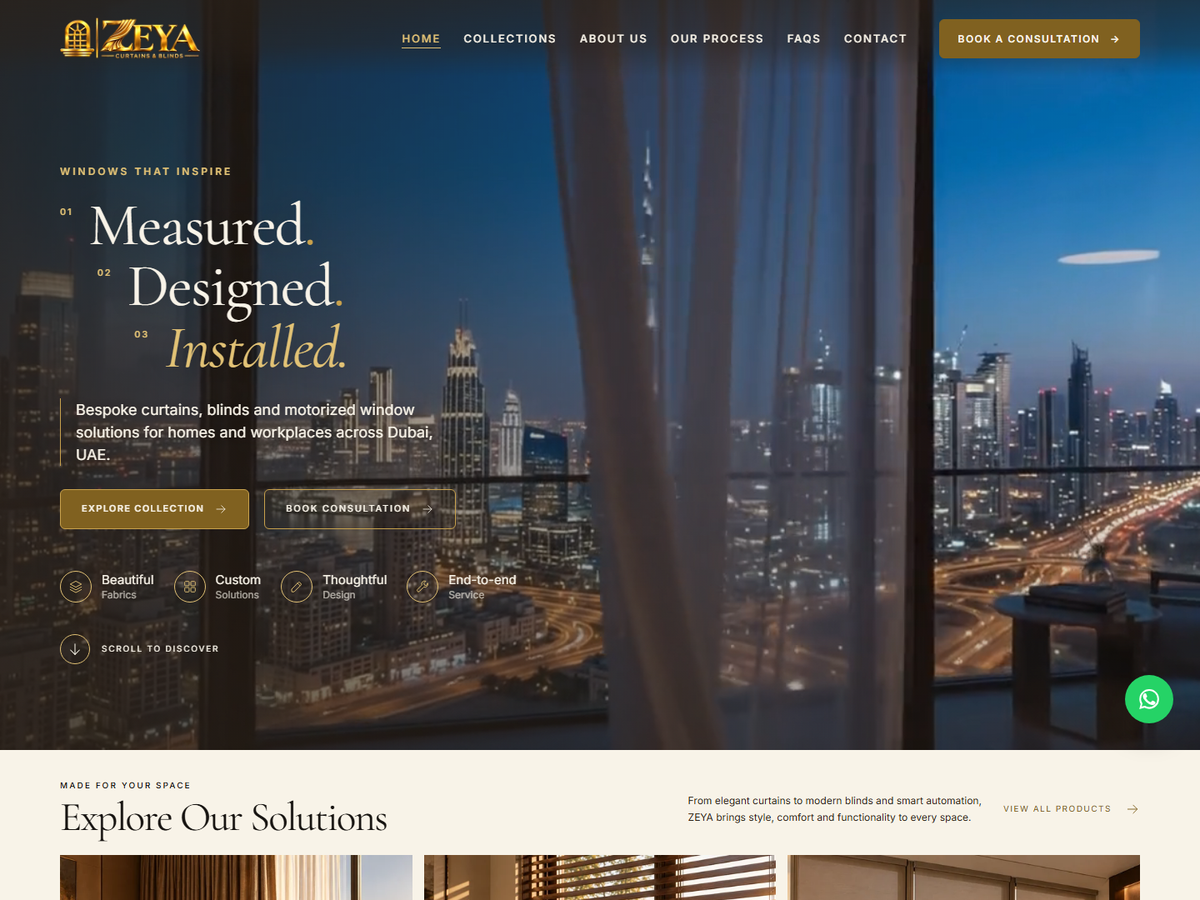
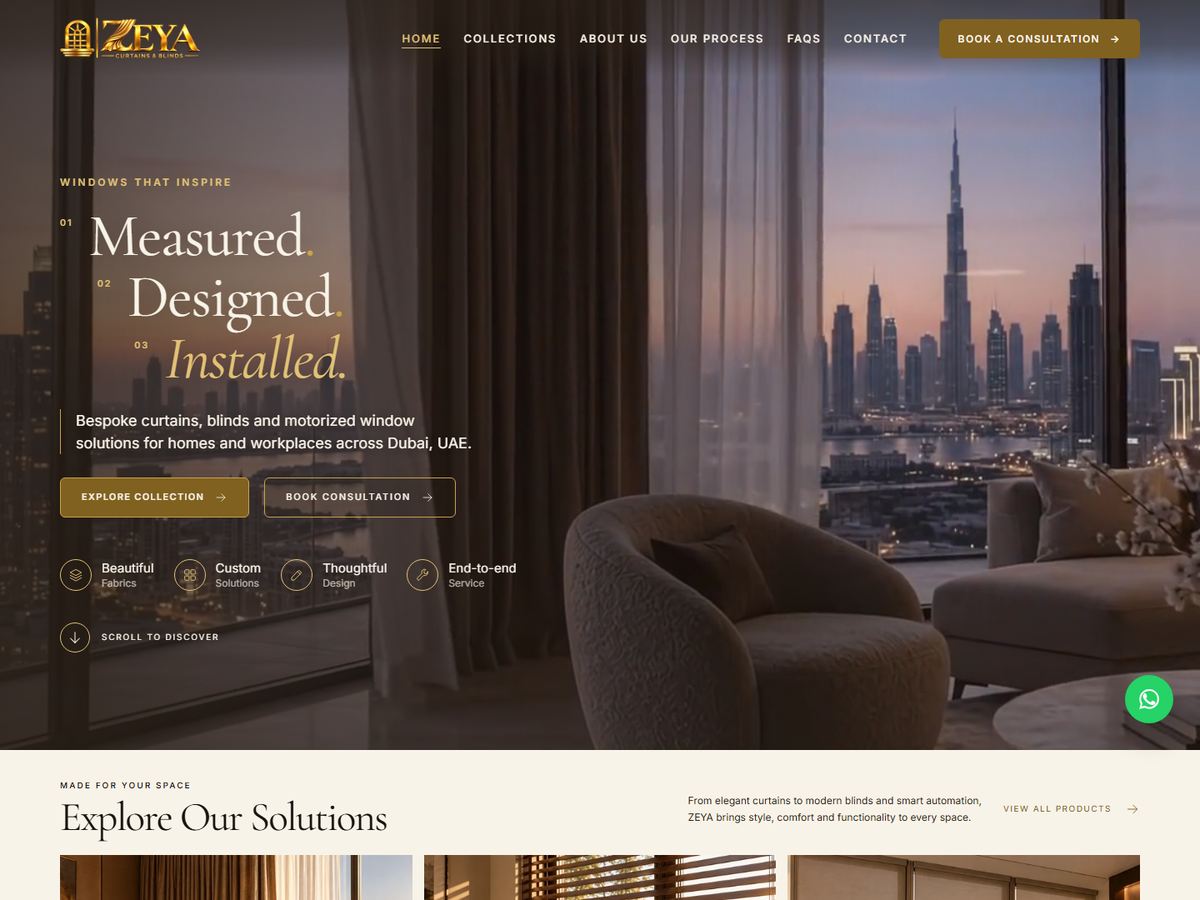
Set the home hero headline on a single line
Drop the numbered staircase and the gold rule beside the supporting line;
"Measured. Designed. Installed." now runs on one line with gold full stops
and a gold italic "Installed.", scaled to fit from phone to desktop.
Completes the stylesheet change begun in the previous commit and syncs
dist/ and the WordPress theme.

diff --git a/dist/css/responsive.css b/dist/css/responsive.css
@@ -103,7 +103,6 @@
   .zeya-signature-heading{flex-wrap:wrap;gap:8px 24px}
   .zeya-solutions .zeya-signature-heading>p{order:3;max-width:none;flex-basis:100%;margin:0}
   .zeya-signature-hero .zeya-hero__title{font-size:68px}
-  .zeya-signature-hero .zeya-hero__title--steps{font-size:60px}
   .zeya-art__copy{padding:32px}
   .zeya-quality-grid{gap:14px;grid-template-columns:repeat(2,1fr)}
   .zeya-service-band__features{padding:30px 18px}
@@ -116,7 +115,6 @@
   .zeya-nav__cta{padding:14px 24px}
   .zeya-signature-hero{min-height:100svh;padding-top:110px}
   .zeya-signature-hero .zeya-hero__title{font-size:64px}
-  .zeya-signature-hero .zeya-hero__title--steps{font-size:58px}
   .zeya-hero-aside{right:6%;top:30%}
   .zeya-art__copy{padding:28px}
   .zeya-desktop-break{display:none}
@@ -133,10 +131,7 @@
   .zeya-signature-hero .zeya-hero__media img{object-position:62% center}
   .zeya-signature-hero .zeya-hero__scrim{background:linear-gradient(90deg,rgba(43,33,24,.82),rgba(43,33,24,.34)),linear-gradient(0deg,rgba(43,33,24,.55),transparent)}
   .zeya-signature-hero .zeya-hero__title{font-size:clamp(46px,9vw,66px);line-height:1}
-  .zeya-signature-hero .zeya-hero__title--steps{font-size:clamp(42px,11.5vw,56px);line-height:1.04}
-  .zeya-hero__step:nth-child(2){margin-left:.4em}
-  .zeya-hero__step:nth-child(3){margin-left:.8em}
-  .zeya-signature-hero .zeya-hero__title--steps + .zeya-hero__sub{padding-left:14px}
+  .zeya-signature-hero .zeya-hero__title--steps{font-size:clamp(26px,6.5vw,46px);line-height:1.05}
   .zeya-signature-hero .zeya-hero__eyebrow{font-size:10px}
   .zeya-signature-hero .zeya-hero__sub{font-size:15px;max-width:360px}
   .zeya-signature-hero .zeya-hero__actions{width:auto;flex-direction:row;flex-wrap:wrap;gap:12px}
@@ -183,7 +178,6 @@
   .zeya-signature-hero{padding-top:calc(var(--zeya-nav-h) + 16px);padding-bottom:16px}
   .zeya-signature-hero .zeya-hero__inner{gap:12px}
   .zeya-signature-hero .zeya-hero__title{font-size:clamp(38px,8svh,66px)}
-  .zeya-signature-hero .zeya-hero__title--steps{font-size:clamp(38px,7svh,60px)}
   .zeya-signature-hero .zeya-hero__sub{font-size:15px}
   .zeya-signature-hero .zeya-hero__actions{margin-top:4px}
   .zeya-hero-promises{margin-top:8px}

diff --git a/zeya-theme/assets/css/responsive.css b/zeya-theme/assets/css/responsive.css
@@ -103,7 +103,6 @@
   .zeya-signature-heading{flex-wrap:wrap;gap:8px 24px}
   .zeya-solutions .zeya-signature-heading>p{order:3;max-width:none;flex-basis:100%;margin:0}
   .zeya-signature-hero .zeya-hero__title{font-size:68px}
-  .zeya-signature-hero .zeya-hero__title--steps{font-size:60px}
   .zeya-art__copy{padding:32px}
   .zeya-quality-grid{gap:14px;grid-template-columns:repeat(2,1fr)}
   .zeya-service-band__features{padding:30px 18px}
@@ -116,7 +115,6 @@
   .zeya-nav__cta{padding:14px 24px}
   .zeya-signature-hero{min-height:100svh;padding-top:110px}
   .zeya-signature-hero .zeya-hero__title{font-size:64px}
-  .zeya-signature-hero .zeya-hero__title--steps{font-size:58px}
   .zeya-hero-aside{right:6%;top:30%}
   .zeya-art__copy{padding:28px}
   .zeya-desktop-break{display:none}
@@ -133,10 +131,7 @@
   .zeya-signature-hero .zeya-hero__media img{object-position:62% center}
   .zeya-signature-hero .zeya-hero__scrim{background:linear-gradient(90deg,rgba(43,33,24,.82),rgba(43,33,24,.34)),linear-gradient(0deg,rgba(43,33,24,.55),transparent)}
   .zeya-signature-hero .zeya-hero__title{font-size:clamp(46px,9vw,66px);line-height:1}
-  .zeya-signature-hero .zeya-hero__title--steps{font-size:clamp(42px,11.5vw,56px);line-height:1.04}
-  .zeya-hero__step:nth-child(2){margin-left:.4em}
-  .zeya-hero__step:nth-child(3){margin-left:.8em}
-  .zeya-signature-hero .zeya-hero__title--steps + .zeya-hero__sub{padding-left:14px}
+  .zeya-signature-hero .zeya-hero__title--steps{font-size:clamp(26px,6.5vw,46px);line-height:1.05}
   .zeya-signature-hero .zeya-hero__eyebrow{font-size:10px}
   .zeya-signature-hero .zeya-hero__sub{font-size:15px;max-width:360px}
   .zeya-signature-hero .zeya-hero__actions{width:auto;flex-direction:row;flex-wrap:wrap;gap:12px}
@@ -183,7 +178,6 @@
   .zeya-signature-hero{padding-top:calc(var(--zeya-nav-h) + 16px);padding-bottom:16px}
   .zeya-signature-hero .zeya-hero__inner{gap:12px}
   .zeya-signature-hero .zeya-hero__title{font-size:clamp(38px,8svh,66px)}
-  .zeya-signature-hero .zeya-hero__title--steps{font-size:clamp(38px,7svh,60px)}
   .zeya-signature-hero .zeya-hero__sub{font-size:15px}
   .zeya-signature-hero .zeya-hero__actions{margin-top:4px}
   .zeya-hero-promises{margin-top:8px}

diff --git a/zeya-website/css/responsive.css b/zeya-website/css/responsive.css
@@ -103,7 +103,6 @@
   .zeya-signature-heading{flex-wrap:wrap;gap:8px 24px}
   .zeya-solutions .zeya-signature-heading>p{order:3;max-width:none;flex-basis:100%;margin:0}
   .zeya-signature-hero .zeya-hero__title{font-size:68px}
-  .zeya-signature-hero .zeya-hero__title--steps{font-size:60px}
   .zeya-art__copy{padding:32px}
   .zeya-quality-grid{gap:14px;grid-template-columns:repeat(2,1fr)}
   .zeya-service-band__features{padding:30px 18px}
@@ -116,7 +115,6 @@
   .zeya-nav__cta{padding:14px 24px}
   .zeya-signature-hero{min-height:100svh;padding-top:110px}
   .zeya-signature-hero .zeya-hero__title{font-size:64px}
-  .zeya-signature-hero .zeya-hero__title--steps{font-size:58px}
   .zeya-hero-aside{right:6%;top:30%}
   .zeya-art__copy{padding:28px}
   .zeya-desktop-break{display:none}
@@ -133,10 +131,7 @@
   .zeya-signature-hero .zeya-hero__media img{object-position:62% center}
   .zeya-signature-hero .zeya-hero__scrim{background:linear-gradient(90deg,rgba(43,33,24,.82),rgba(43,33,24,.34)),linear-gradient(0deg,rgba(43,33,24,.55),transparent)}
   .zeya-signature-hero .zeya-hero__title{font-size:clamp(46px,9vw,66px);line-height:1}
-  .zeya-signature-hero .zeya-hero__title--steps{font-size:clamp(42px,11.5vw,56px);line-height:1.04}
-  .zeya-hero__step:nth-child(2){margin-left:.4em}
-  .zeya-hero__step:nth-child(3){margin-left:.8em}
-  .zeya-signature-hero .zeya-hero__title--steps + .zeya-hero__sub{padding-left:14px}
+  .zeya-signature-hero .zeya-hero__title--steps{font-size:clamp(26px,6.5vw,46px);line-height:1.05}
   .zeya-signature-hero .zeya-hero__eyebrow{font-size:10px}
   .zeya-signature-hero .zeya-hero__sub{font-size:15px;max-width:360px}
   .zeya-signature-hero .zeya-hero__actions{width:auto;flex-direction:row;flex-wrap:wrap;gap:12px}
@@ -183,7 +178,6 @@
   .zeya-signature-hero{padding-top:calc(var(--zeya-nav-h) + 16px);padding-bottom:16px}
   .zeya-signature-hero .zeya-hero__inner{gap:12px}
   .zeya-signature-hero .zeya-hero__title{font-size:clamp(38px,8svh,66px)}
-  .zeya-signature-hero .zeya-hero__title--steps{font-size:clamp(38px,7svh,60px)}
   .zeya-signature-hero .zeya-hero__sub{font-size:15px}
   .zeya-signature-hero .zeya-hero__actions{margin-top:4px}
   .zeya-hero-promises{margin-top:8px}

diff --git a/dist/css/style.css b/dist/css/style.css
@@ -653,18 +653,14 @@ body.zeya-body{margin:0;background:var(--zeya-cream);color:var(--zeya-body);
 .zeya-signature-hero .zeya-hero__eyebrow{color:var(--zeya-champagne-gold);font-size:12px;letter-spacing:.25em;text-shadow:none}
 .zeya-signature-hero .zeya-hero__title{font-size:clamp(56px,5.8vw,88px);line-height:.94;
   max-width:none;letter-spacing:-.035em;font-weight:400}
-.zeya-hero__title--steps{counter-reset:zeya-step}
-.zeya-signature-hero .zeya-hero__title--steps{font-size:clamp(50px,5vw,78px);line-height:1.02;letter-spacing:-.02em}
-.zeya-hero__step{display:flex;align-items:flex-start;gap:.26em;counter-increment:zeya-step}
-.zeya-hero__step:nth-child(2){margin-left:.62em}
-.zeya-hero__step:nth-child(3){margin-left:1.24em}
-.zeya-hero__step::before{content:"0" counter(zeya-step);content:"0" counter(zeya-step) / "";
-  font-family:var(--zeya-sans);font-size:max(10px,.15em);font-weight:600;letter-spacing:.18em;
-  line-height:1;color:var(--zeya-champagne-gold);margin-top:1.45em;text-shadow:none}
+.zeya-signature-hero .zeya-hero__title--steps{display:flex;align-items:baseline;gap:.18em;
+  font-size:clamp(26px,6.5vw,78px);line-height:1.05;letter-spacing:-.025em;white-space:nowrap}
+.zeya-hero__step{display:inline;margin:0}
+.zeya-hero__step::before{display:none}
 .zeya-hero__dot{color:var(--zeya-gold)}
 .zeya-signature-hero .zeya-hero__title--steps em{font-style:italic;color:var(--zeya-champagne-gold)}
-.zeya-signature-hero .zeya-hero__title--steps + .zeya-hero__sub{margin-top:6px;padding-left:18px;
-  border-left:1px solid var(--zeya-gold);max-width:548px}
+.zeya-signature-hero .zeya-hero__title--steps + .zeya-hero__sub{margin-top:0;padding-left:0;
+  border-left:0;max-width:548px}
 .zeya-signature-hero .zeya-hero__sub{font-size:18px;max-width:510px;text-align:left;line-height:1.5;color:var(--zeya-ivory)}
 .zeya-signature-hero .zeya-hero__actions{justify-content:flex-start;gap:18px;margin-top:10px}
 .zeya-signature-hero .zeya-btn{min-height:48px;padding:13px 25px}

diff --git a/zeya-theme/assets/css/style.css b/zeya-theme/assets/css/style.css
@@ -653,18 +653,14 @@ body.zeya-body{margin:0;background:var(--zeya-cream);color:var(--zeya-body);
 .zeya-signature-hero .zeya-hero__eyebrow{color:var(--zeya-champagne-gold);font-size:12px;letter-spacing:.25em;text-shadow:none}
 .zeya-signature-hero .zeya-hero__title{font-size:clamp(56px,5.8vw,88px);line-height:.94;
   max-width:none;letter-spacing:-.035em;font-weight:400}
-.zeya-hero__title--steps{counter-reset:zeya-step}
-.zeya-signature-hero .zeya-hero__title--steps{font-size:clamp(50px,5vw,78px);line-height:1.02;letter-spacing:-.02em}
-.zeya-hero__step{display:flex;align-items:flex-start;gap:.26em;counter-increment:zeya-step}
-.zeya-hero__step:nth-child(2){margin-left:.62em}
-.zeya-hero__step:nth-child(3){margin-left:1.24em}
-.zeya-hero__step::before{content:"0" counter(zeya-step);content:"0" counter(zeya-step) / "";
-  font-family:var(--zeya-sans);font-size:max(10px,.15em);font-weight:600;letter-spacing:.18em;
-  line-height:1;color:var(--zeya-champagne-gold);margin-top:1.45em;text-shadow:none}
+.zeya-signature-hero .zeya-hero__title--steps{display:flex;align-items:baseline;gap:.18em;
+  font-size:clamp(26px,6.5vw,78px);line-height:1.05;letter-spacing:-.025em;white-space:nowrap}
+.zeya-hero__step{display:inline;margin:0}
+.zeya-hero__step::before{display:none}
 .zeya-hero__dot{color:var(--zeya-gold)}
 .zeya-signature-hero .zeya-hero__title--steps em{font-style:italic;color:var(--zeya-champagne-gold)}
-.zeya-signature-hero .zeya-hero__title--steps + .zeya-hero__sub{margin-top:6px;padding-left:18px;
-  border-left:1px solid var(--zeya-gold);max-width:548px}
+.zeya-signature-hero .zeya-hero__title--steps + .zeya-hero__sub{margin-top:0;padding-left:0;
+  border-left:0;max-width:548px}
 .zeya-signature-hero .zeya-hero__sub{font-size:18px;max-width:510px;text-align:left;line-height:1.5;color:var(--zeya-ivory)}
 .zeya-signature-hero .zeya-hero__actions{justify-content:flex-start;gap:18px;margin-top:10px}
 .zeya-signature-hero .zeya-btn{min-height:48px;padding:13px 25px}
